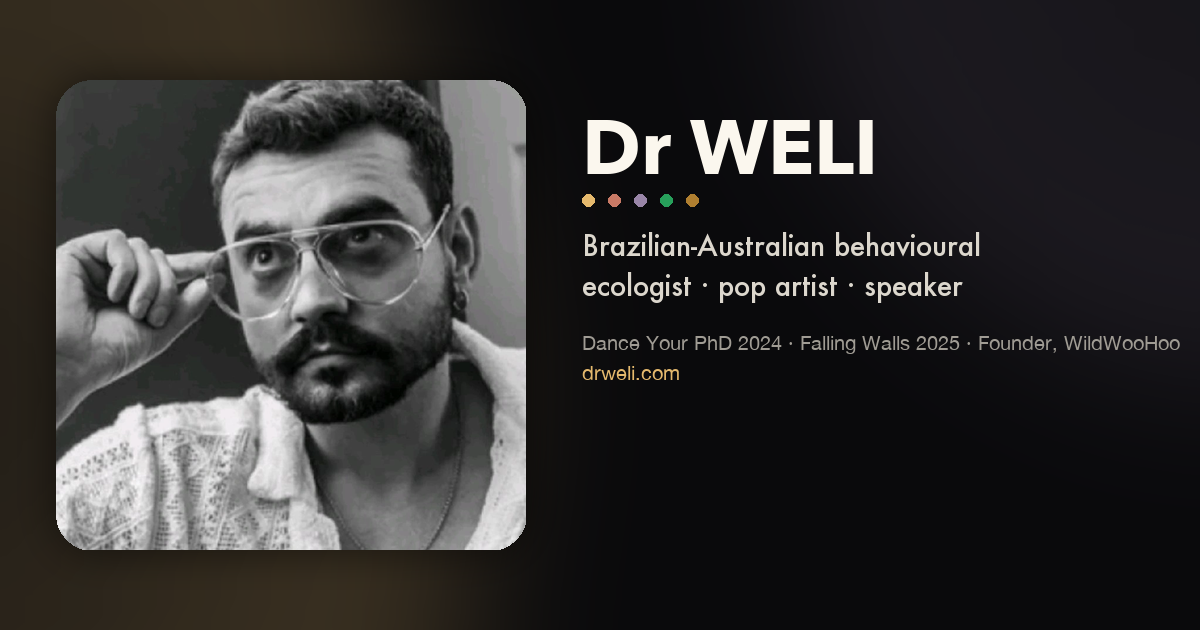
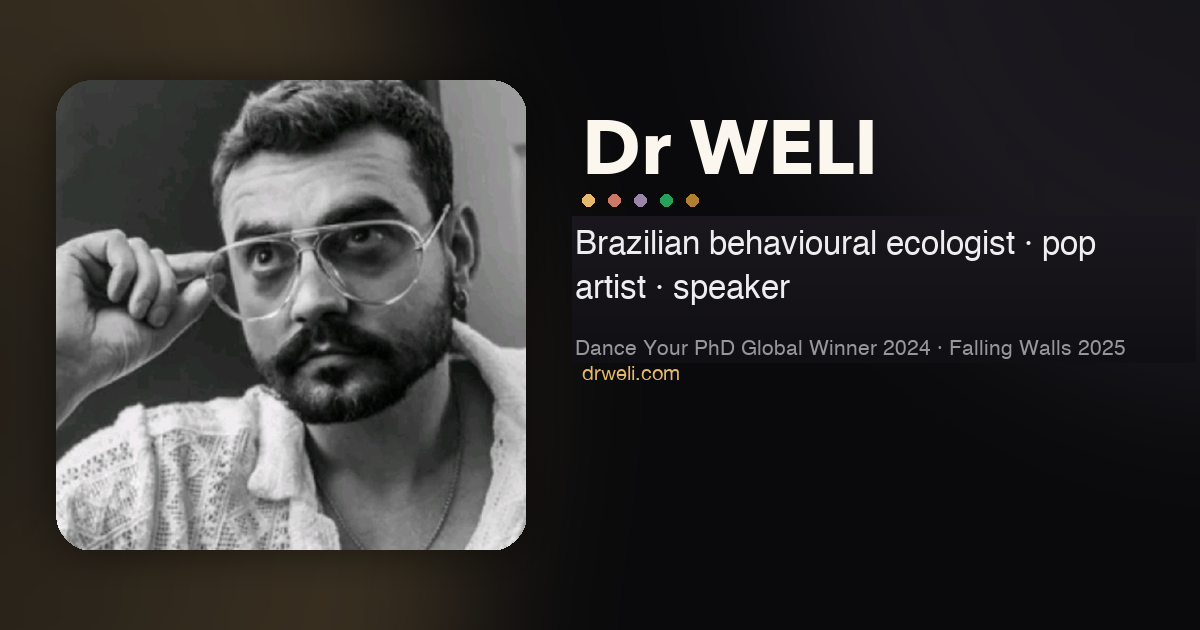
OG share card: fix truth errors + de-truncate program title
- og-card.png: 'Brazilian-Australian' -> 'Brazilian'; award -> 'Dance Your PhD Global Winner 2024'. Headshot, name, dots and url preserved.
- program/: drop the truncating '(Sydney + global)' from the title/OG title.
- Added og:image ?v across pages so scrapers refetch.

Changed region(s): [[0.4625, 0.3619, 0.925, 0.4825], [0.4625, 0.5127, 0.9867, 0.573]]

diff --git a/program/index.html b/program/index.html
@@ -3,7 +3,7 @@
 <head>
 <meta charset="utf-8" />
 <meta name="viewport" content="width=device-width, initial-scale=1" />
-<title>Speaking, Workshops and Programs — Dr WELI (Sydney + global)</title>
+<title>Speaking, Workshops and Programs — Dr WELI</title>
 <meta name="description" content="Movement-led, science-informed activations, workshops, and programs for corporate, universities, schools, and creative collaborations." />
 <link rel="stylesheet" href="/styles.css?v=20260521a" />
 <link rel="stylesheet" href="/program/program.css?v=20260521a" />
@@ -21,15 +21,15 @@
 <meta name="robots" content="index, follow, max-image-preview:large">
 <meta property="og:type" content="website">
 <meta property="og:site_name" content="Dr WELI">
-<meta property="og:title" content="Speaking, Workshops and Programs — Dr WELI (Sydney + global)">
+<meta property="og:title" content="Speaking, Workshops and Programs — Dr WELI">
 <meta property="og:description" content="Movement-led, science-informed activations, workshops, and programs for corporate, universities, schools, and creative collaborations.">
 <meta property="og:url" content="https://drweli.com/program/">
-<meta property="og:image" content="https://drweli.com/og-card.png">
+<meta property="og:image" content="https://drweli.com/og-card.png?v=20260711">
 <meta property="og:locale" content="en_AU">
 <meta name="twitter:card" content="summary_large_image">
-<meta name="twitter:title" content="Speaking, Workshops and Programs — Dr WELI (Sydney + global)">
+<meta name="twitter:title" content="Speaking, Workshops and Programs — Dr WELI">
 <meta name="twitter:description" content="Movement-led, science-informed activations, workshops, and programs for corporate, universities, schools, and creative collaborations.">
-<meta name="twitter:image" content="https://drweli.com/og-card.png">
+<meta name="twitter:image" content="https://drweli.com/og-card.png?v=20260711">
 <meta name="twitter:creator" content="@welimusician">
 <link rel="alternate" hreflang="en-au" href="https://drweli.com/program/">
 <link rel="alternate" hreflang="en" href="https://drweli.com/program/">

diff --git a/press/index.html b/press/index.html
@@ -21,12 +21,12 @@
 <meta property="og:title" content="Press and Media Kit — Dr WELI (Dance Your PhD 2024 winner)">
 <meta property="og:description" content="Press kit for Dr WELI: bios (50/100/400 words), headshot references, fact sheet, key quotes, press contact. For journalists, festival programmers, venue press teams.">
 <meta property="og:url" content="https://drweli.com/press/">
-<meta property="og:image" content="https://drweli.com/og-card.png">
+<meta property="og:image" content="https://drweli.com/og-card.png?v=20260711">
 <meta property="og:locale" content="en_AU">
 <meta name="twitter:card" content="summary_large_image">
 <meta name="twitter:title" content="Press and Media Kit — Dr WELI (Dance Your PhD 2024 winner)">
 <meta name="twitter:description" content="Press kit for Dr WELI: bios (50/100/400 words), headshot references, fact sheet, key quotes, press contact. For journalists, festival programmers, venue press teams.">
-<meta name="twitter:image" content="https://drweli.com/og-card.png">
+<meta name="twitter:image" content="https://drweli.com/og-card.png?v=20260711">
 <meta name="twitter:creator" content="@welimusician">
 <link rel="alternate" hreflang="en-au" href="https://drweli.com/press/">
 <link rel="alternate" hreflang="en" href="https://drweli.com/press/">
@@ -178,7 +178,7 @@
     <h2>Headshots, photography &amp; logos</h2>
     <p>High-resolution press photography and brand assets available on request to <a href="mailto:bookings@drweli.com">bookings@drweli.com</a>. State your outlet and the planned publication date.</p>
     <ul class="links">
-      <li><a href="https://drweli.com/og-card.png" download>Press card (1200×630, social share)</a></li>
+      <li><a href="https://drweli.com/og-card.png?v=20260711" download>Press card (1200×630, social share)</a></li>
       <li><a href="https://wildwoohoo.com/brand-kit/wildwoohoo-brand-kit.zip" download>WildWooHoo brand kit (30 MB ZIP) — for stories about the studio</a></li>
       <li><a href="/media/">In-depth media archive (NPR, Smithsonian, Guardian, BBC, ABC, Globo + 250 more)</a></li>
     </ul>

diff --git a/index.html b/index.html
@@ -25,12 +25,12 @@
 <meta property="og:title" content="Dr WELI — Sydney music artist + PhD ecologist (ANU)">
 <meta property="og:description" content="Dr WELI: Sydney-based Brazilian-born music artist and behavioural ecologist (PhD ANU). Dance Your PhD 2024 winner. Falling Walls Top 30 2025. Founder of WildWooHoo.">
 <meta property="og:url" content="https://drweli.com/">
-<meta property="og:image" content="https://drweli.com/og-card.png">
+<meta property="og:image" content="https://drweli.com/og-card.png?v=20260711">
 <meta property="og:locale" content="en_AU">
 <meta name="twitter:card" content="summary_large_image">
 <meta name="twitter:title" content="Dr WELI — Sydney music artist + PhD ecologist (ANU)">
 <meta name="twitter:description" content="Dr WELI: Sydney-based Brazilian-born music artist and behavioural ecologist (PhD ANU). Dance Your PhD 2024 winner. Falling Walls Top 30 2025. Founder of WildWooHoo.">
-<meta name="twitter:image" content="https://drweli.com/og-card.png">
+<meta name="twitter:image" content="https://drweli.com/og-card.png?v=20260711">
 <meta name="twitter:creator" content="@welimusician">
 <link rel="alternate" hreflang="en-au" href="https://drweli.com/">
 <link rel="alternate" hreflang="en" href="https://drweli.com/">
@@ -47,7 +47,7 @@
   "familyName": "Menário Costa",
   "alternateName": ["Dr WELI", "WELI", "Dr Weli"],
   "description": "Sydney-based scientist-artist and behavioural ecologist (PhD, ANU). Founder of WildWooHoo, a creative innovation studio, and coiner of sci pop. His Kangaroo Time was the AAAS Dance Your PhD Global Winner 2024; named in the Falling Walls Engage 2025 Top 30.",
-  "image": "https://drweli.com/og-card.png",
+  "image": "https://drweli.com/og-card.png?v=20260711",
   "url": "https://drweli.com/",
   "jobTitle": ["Scientist-artist", "Behavioural ecologist", "Recording artist", "Keynote speaker", "Conference speaker", "Science-art catalyst", "Brazilian and Latin music performer"],
   "hasOccupation": [

diff --git a/program/schools/index.html b/program/schools/index.html
@@ -23,12 +23,12 @@
 <meta property="og:title" content="School Incursions Sydney & Canberra — STEAM Workshops | Dr WELI">
 <meta property="og:description" content="School incursions and STEAM workshops that turn science into story, sound and movement. Kangaroo Time Kids workshops, STEAM alternatives (karaoke, parody, choreographing science), and Transforming Science Into Compelling Art, the teacher PD shortlisted for Falling Walls 2025.">
 <meta property="og:url" content="https://drweli.com/program/schools/">
-<meta property="og:image" content="https://drweli.com/og-card.png">
+<meta property="og:image" content="https://drweli.com/og-card.png?v=20260711">
 <meta property="og:locale" content="en_AU">
 <meta name="twitter:card" content="summary_large_image">
 <meta name="twitter:title" content="School Incursions Sydney & Canberra — STEAM Workshops | Dr WELI">
 <meta name="twitter:description" content="School incursions and STEAM workshops that turn science into story, sound and movement. Kangaroo Time Kids workshops, STEAM alternatives (karaoke, parody, choreographing science), and Transforming Science Into Compelling Art, the teacher PD shortlisted for Falling Walls 2025.">
-<meta name="twitter:image" content="https://drweli.com/og-card.png">
+<meta name="twitter:image" content="https://drweli.com/og-card.png?v=20260711">
 <meta name="twitter:creator" content="@welimusician">
 <link rel="alternate" hreflang="en-au" href="https://drweli.com/program/schools/">
 <link rel="alternate" hreflang="en" href="https://drweli.com/program/schools/">

diff --git a/music/index.html b/music/index.html
@@ -200,12 +200,12 @@
 <meta property="og:title" content="Brazilian & Latin Music Performer — Book WELI Live (Sydney)">
 <meta property="og:description" content="Book WELI, a Sydney-based Brazilian and Latin music performer, for danceable live sets at festivals, events and parties. Original songs in Portuguese and English, drawing on Brazilian, Latin, Afro and global pop. AAAS Dance Your PhD Global Winner 2024.">
 <meta property="og:url" content="https://drweli.com/music/">
-<meta property="og:image" content="https://drweli.com/og-card.png">
+<meta property="og:image" content="https://drweli.com/og-card.png?v=20260711">
 <meta property="og:locale" content="en_AU">
 <meta name="twitter:card" content="summary_large_image">
 <meta name="twitter:title" content="Brazilian & Latin Music Performer — Book WELI Live (Sydney)">
 <meta name="twitter:description" content="Book WELI, a Sydney-based Brazilian and Latin music performer, for danceable live sets at festivals, events and parties. Original songs in Portuguese and English, drawing on Brazilian, Latin, Afro and global pop. AAAS Dance Your PhD Global Winner 2024.">
-<meta name="twitter:image" content="https://drweli.com/og-card.png">
+<meta name="twitter:image" content="https://drweli.com/og-card.png?v=20260711">
 <meta name="twitter:creator" content="@welimusician">
 <link rel="alternate" hreflang="en-au" href="https://drweli.com/music/">
 <link rel="alternate" hreflang="en" href="https://drweli.com/music/">

diff --git a/program/universities/index.html b/program/universities/index.html
@@ -23,12 +23,12 @@
 <meta property="og:title" content="Dance Your PhD & Research-Communication Workshops — Dr WELI">
 <meta property="og:description" content="Research-communication and Dance Your PhD workshops for HDR researchers, ECRs and graduate schools: turn a thesis into performance, song or film. By a Dance Your PhD winner (PhD, ANU). Sydney and Australia-wide.">
 <meta property="og:url" content="https://drweli.com/program/universities/">
-<meta property="og:image" content="https://drweli.com/og-card.png">
+<meta property="og:image" content="https://drweli.com/og-card.png?v=20260711">
 <meta property="og:locale" content="en_AU">
 <meta name="twitter:card" content="summary_large_image">
 <meta name="twitter:title" content="Dance Your PhD & Research-Communication Workshops — Dr WELI">
 <meta name="twitter:description" content="Research-communication and Dance Your PhD workshops for HDR researchers, ECRs and graduate schools: turn a thesis into performance, song or film. By a Dance Your PhD winner (PhD, ANU). Sydney and Australia-wide.">
-<meta name="twitter:image" content="https://drweli.com/og-card.png">
+<meta name="twitter:image" content="https://drweli.com/og-card.png?v=20260711">
 <meta name="twitter:creator" content="@welimusician">
 <link rel="alternate" hreflang="en-au" href="https://drweli.com/program/universities/">
 <link rel="alternate" hreflang="en" href="https://drweli.com/program/universities/">

diff --git a/program/corporate/index.html b/program/corporate/index.html
@@ -23,12 +23,12 @@
 <meta property="og:title" content="Interactive Science Keynote & Conference Energiser, Sydney — Dr WELI">
 <meta property="og:description" content="A science-into-art experience that lifts the room and moves teams: movement for social cohesion, story, and a memorable close. For conferences, leadership offsites, and people teams.">
 <meta property="og:url" content="https://drweli.com/program/corporate/">
-<meta property="og:image" content="https://drweli.com/og-card.png">
+<meta property="og:image" content="https://drweli.com/og-card.png?v=20260711">
 <meta property="og:locale" content="en_AU">
 <meta name="twitter:card" content="summary_large_image">
 <meta name="twitter:title" content="Interactive Science Keynote & Conference Energiser, Sydney — Dr WELI">
 <meta name="twitter:description" content="A science-into-art experience that lifts the room and moves teams: movement for social cohesion, story, and a memorable close. For conferences, leadership offsites, and people teams.">
-<meta name="twitter:image" content="https://drweli.com/og-card.png">
+<meta name="twitter:image" content="https://drweli.com/og-card.png?v=20260711">
 <meta name="twitter:creator" content="@welimusician">
 <link rel="alternate" hreflang="en-au" href="https://drweli.com/program/corporate/">
 <link rel="alternate" hreflang="en" href="https://drweli.com/program/corporate/">

diff --git a/program/science-art/index.html b/program/science-art/index.html
@@ -23,12 +23,12 @@
 <meta property="og:title" content="Science-Art Residencies, Commissions & Campaigns — Dr WELI">
 <meta property="og:description" content="Where research becomes culture, film, music, and campaigns built for public reach. For institutions, labs, and cultural partners.">
 <meta property="og:url" content="https://drweli.com/program/science-art/">
-<meta property="og:image" content="https://drweli.com/og-card.png">
+<meta property="og:image" content="https://drweli.com/og-card.png?v=20260711">
 <meta property="og:locale" content="en_AU">
 <meta name="twitter:card" content="summary_large_image">
 <meta name="twitter:title" content="Science-Art Residencies, Commissions & Campaigns — Dr WELI">
 <meta name="twitter:description" content="Where research becomes culture, film, music, and campaigns built for public reach. For institutions, labs, and cultural partners.">
-<meta name="twitter:image" content="https://drweli.com/og-card.png">
+<meta name="twitter:image" content="https://drweli.com/og-card.png?v=20260711">
 <meta name="twitter:creator" content="@welimusician">
 <link rel="alternate" hreflang="en-au" href="https://drweli.com/program/science-art/">
 <link rel="alternate" hreflang="en" href="https://drweli.com/program/science-art/">

diff --git a/enquire/index.html b/enquire/index.html
@@ -24,12 +24,12 @@
 <meta property="og:title" content="Enquire — Book Dr WELI for Speaking, Workshops, Performance">
 <meta property="og:description" content="Enquire about live performances, workshops, programs, and creative collaborations with Dr Weliton Menário Costa (WELI).">
 <meta property="og:url" content="https://drweli.com/enquire/">
-<meta property="og:image" content="https://drweli.com/og-card.png">
+<meta property="og:image" content="https://drweli.com/og-card.png?v=20260711">
 <meta property="og:locale" content="en_AU">
 <meta name="twitter:card" content="summary_large_image">
 <meta name="twitter:title" content="Enquire — Book Dr WELI for Speaking, Workshops, Performance">
 <meta name="twitter:description" content="Enquire about live performances, workshops, programs, and creative collaborations with Dr Weliton Menário Costa (WELI).">
-<meta name="twitter:image" content="https://drweli.com/og-card.png">
+<meta name="twitter:image" content="https://drweli.com/og-card.png?v=20260711">
 <meta name="twitter:creator" content="@welimusician">
 <link rel="alternate" hreflang="en-au" href="https://drweli.com/enquire/">
 <link rel="alternate" hreflang="en" href="https://drweli.com/enquire/">

diff --git a/media/index.html b/media/index.html
@@ -103,12 +103,12 @@
 <meta property="og:title" content="Press and Media — Dr WELI in NPR, Smithsonian, BBC, Guardian">
 <meta property="og:description" content="Global media coverage for WELI, Kangaroo Time, Dance Your PhD, and science-led creative work">
 <meta property="og:url" content="https://drweli.com/media/">
-<meta property="og:image" content="https://drweli.com/og-card.png">
+<meta property="og:image" content="https://drweli.com/og-card.png?v=20260711">
 <meta property="og:locale" content="en_AU">
 <meta name="twitter:card" content="summary_large_image">
 <meta name="twitter:title" content="Press and Media — Dr WELI in NPR, Smithsonian, BBC, Guardian">
 <meta name="twitter:description" content="Global media coverage for WELI, Kangaroo Time, Dance Your PhD, and science-led creative work">
-<meta name="twitter:image" content="https://drweli.com/og-card.png">
+<meta name="twitter:image" content="https://drweli.com/og-card.png?v=20260711">
 <meta name="twitter:creator" content="@welimusician">
 <link rel="alternate" hreflang="en-au" href="https://drweli.com/media/">
 <link rel="alternate" hreflang="en" href="https://drweli.com/media/">

diff --git a/academic/index.html b/academic/index.html
@@ -326,12 +326,12 @@
 <meta property="og:title" content="Academic Research and Teaching — Dr WELI (PhD, ANU)">
 <meta property="og:description" content="Research, facilitation, teaching, publications, and talks by Dr Weliton Menário Costa">
 <meta property="og:url" content="https://drweli.com/academic/">
-<meta property="og:image" content="https://drweli.com/og-card.png">
+<meta property="og:image" content="https://drweli.com/og-card.png?v=20260711">
 <meta property="og:locale" content="en_AU">
 <meta name="twitter:card" content="summary_large_image">
 <meta name="twitter:title" content="Academic Research and Teaching — Dr WELI (PhD, ANU)">
 <meta name="twitter:description" content="Research, facilitation, teaching, publications, and talks by Dr Weliton Menário Costa">
-<meta name="twitter:image" content="https://drweli.com/og-card.png">
+<meta name="twitter:image" content="https://drweli.com/og-card.png?v=20260711">
 <meta name="twitter:creator" content="@welimusician">
 <link rel="alternate" hreflang="en-au" href="https://drweli.com/academic/">
 <link rel="alternate" hreflang="en" href="https://drweli.com/academic/">

diff --git a/program/universities.html b/program/universities.html
@@ -21,12 +21,12 @@
 <meta property="og:title" content="Redirecting…">
 <meta property="og:description" content="">
 <meta property="og:url" content="https://drweli.com/program/universities.html">
-<meta property="og:image" content="https://drweli.com/og-card.png">
+<meta property="og:image" content="https://drweli.com/og-card.png?v=20260711">
 <meta property="og:locale" content="en_AU">
 <meta name="twitter:card" content="summary_large_image">
 <meta name="twitter:title" content="Redirecting…">
 <meta name="twitter:description" content="">
-<meta name="twitter:image" content="https://drweli.com/og-card.png">
+<meta name="twitter:image" content="https://drweli.com/og-card.png?v=20260711">
 <meta name="twitter:creator" content="@welimusician">
 <link rel="alternate" hreflang="en-au" href="https://drweli.com/program/universities.html">
 <link rel="alternate" hreflang="en" href="https://drweli.com/program/universities.html">
